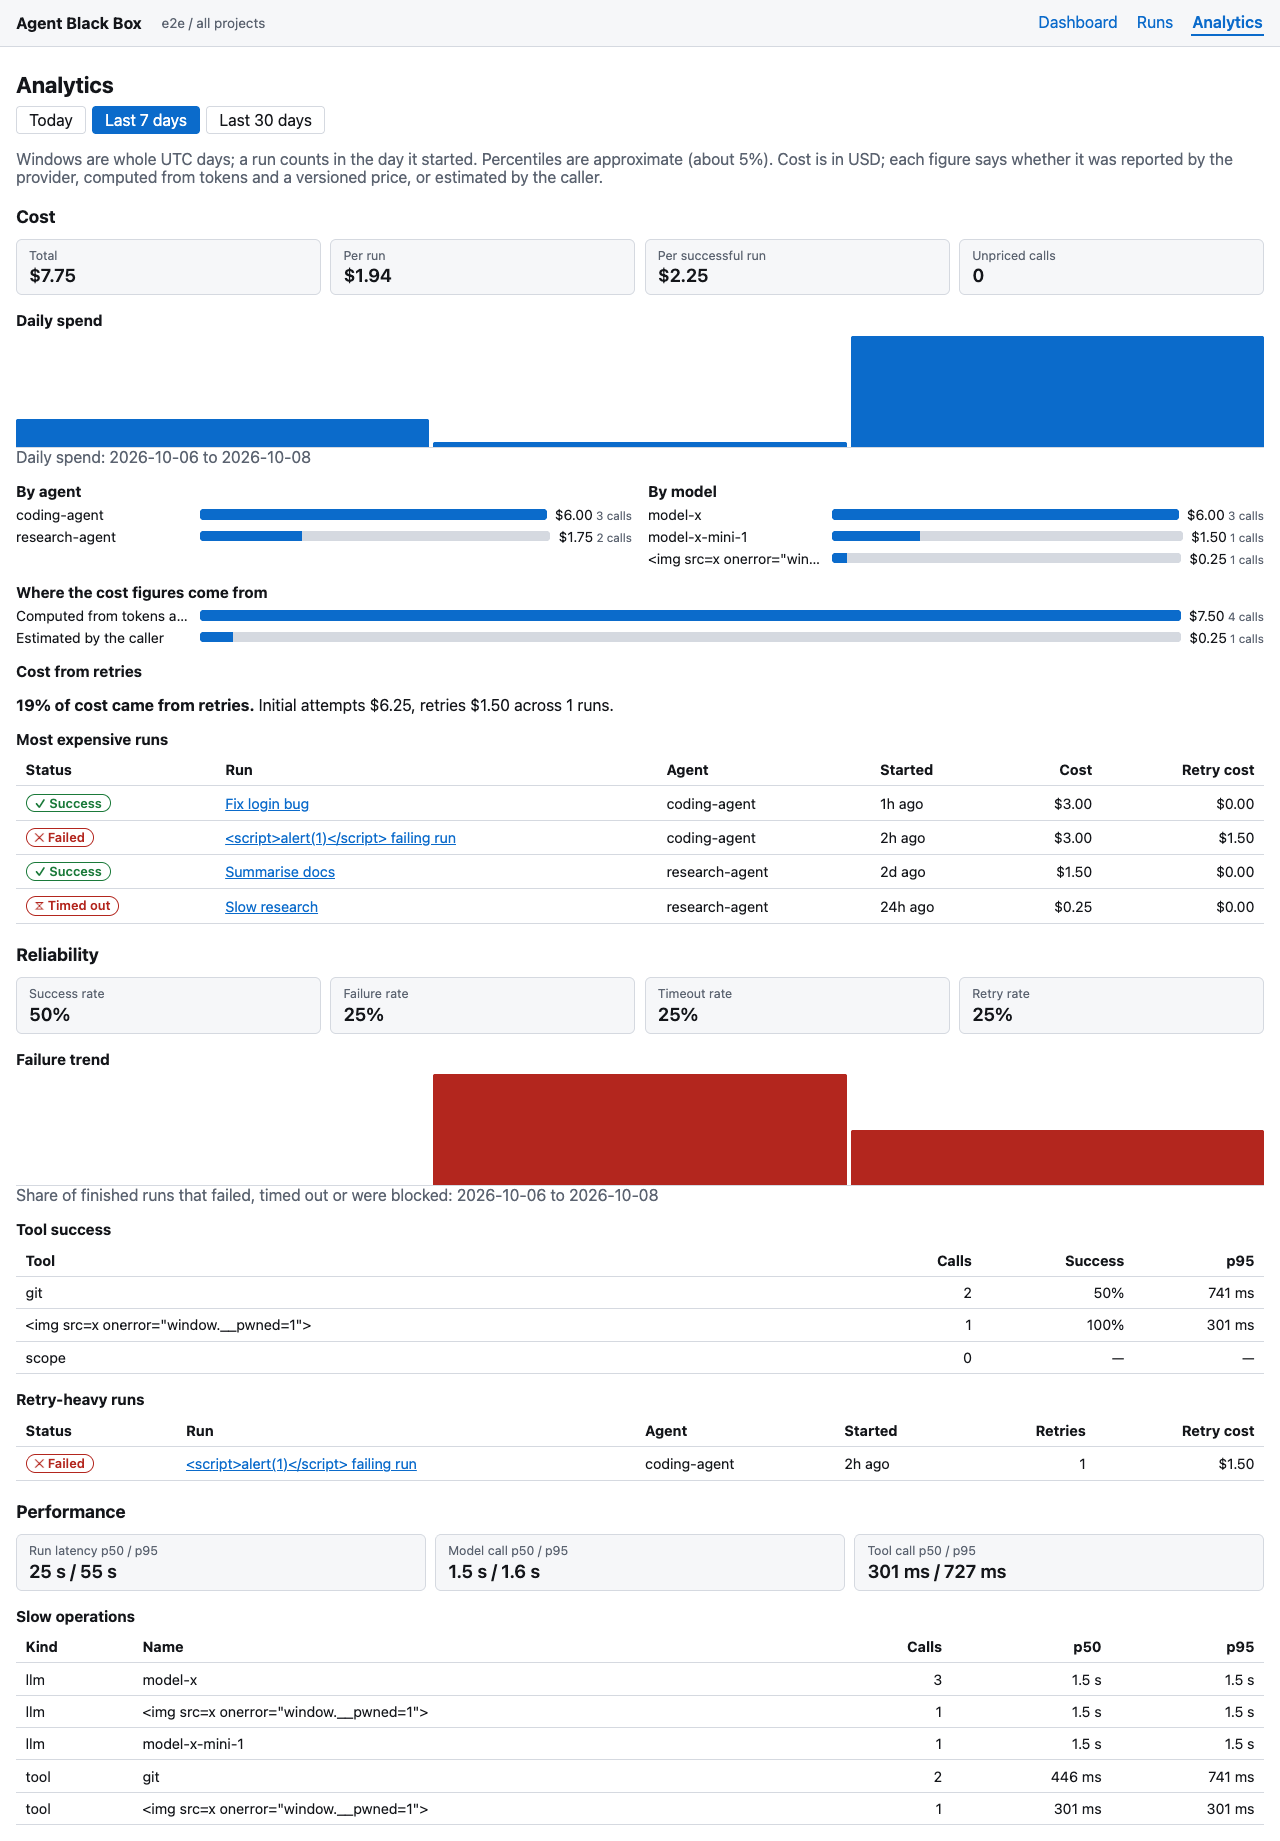
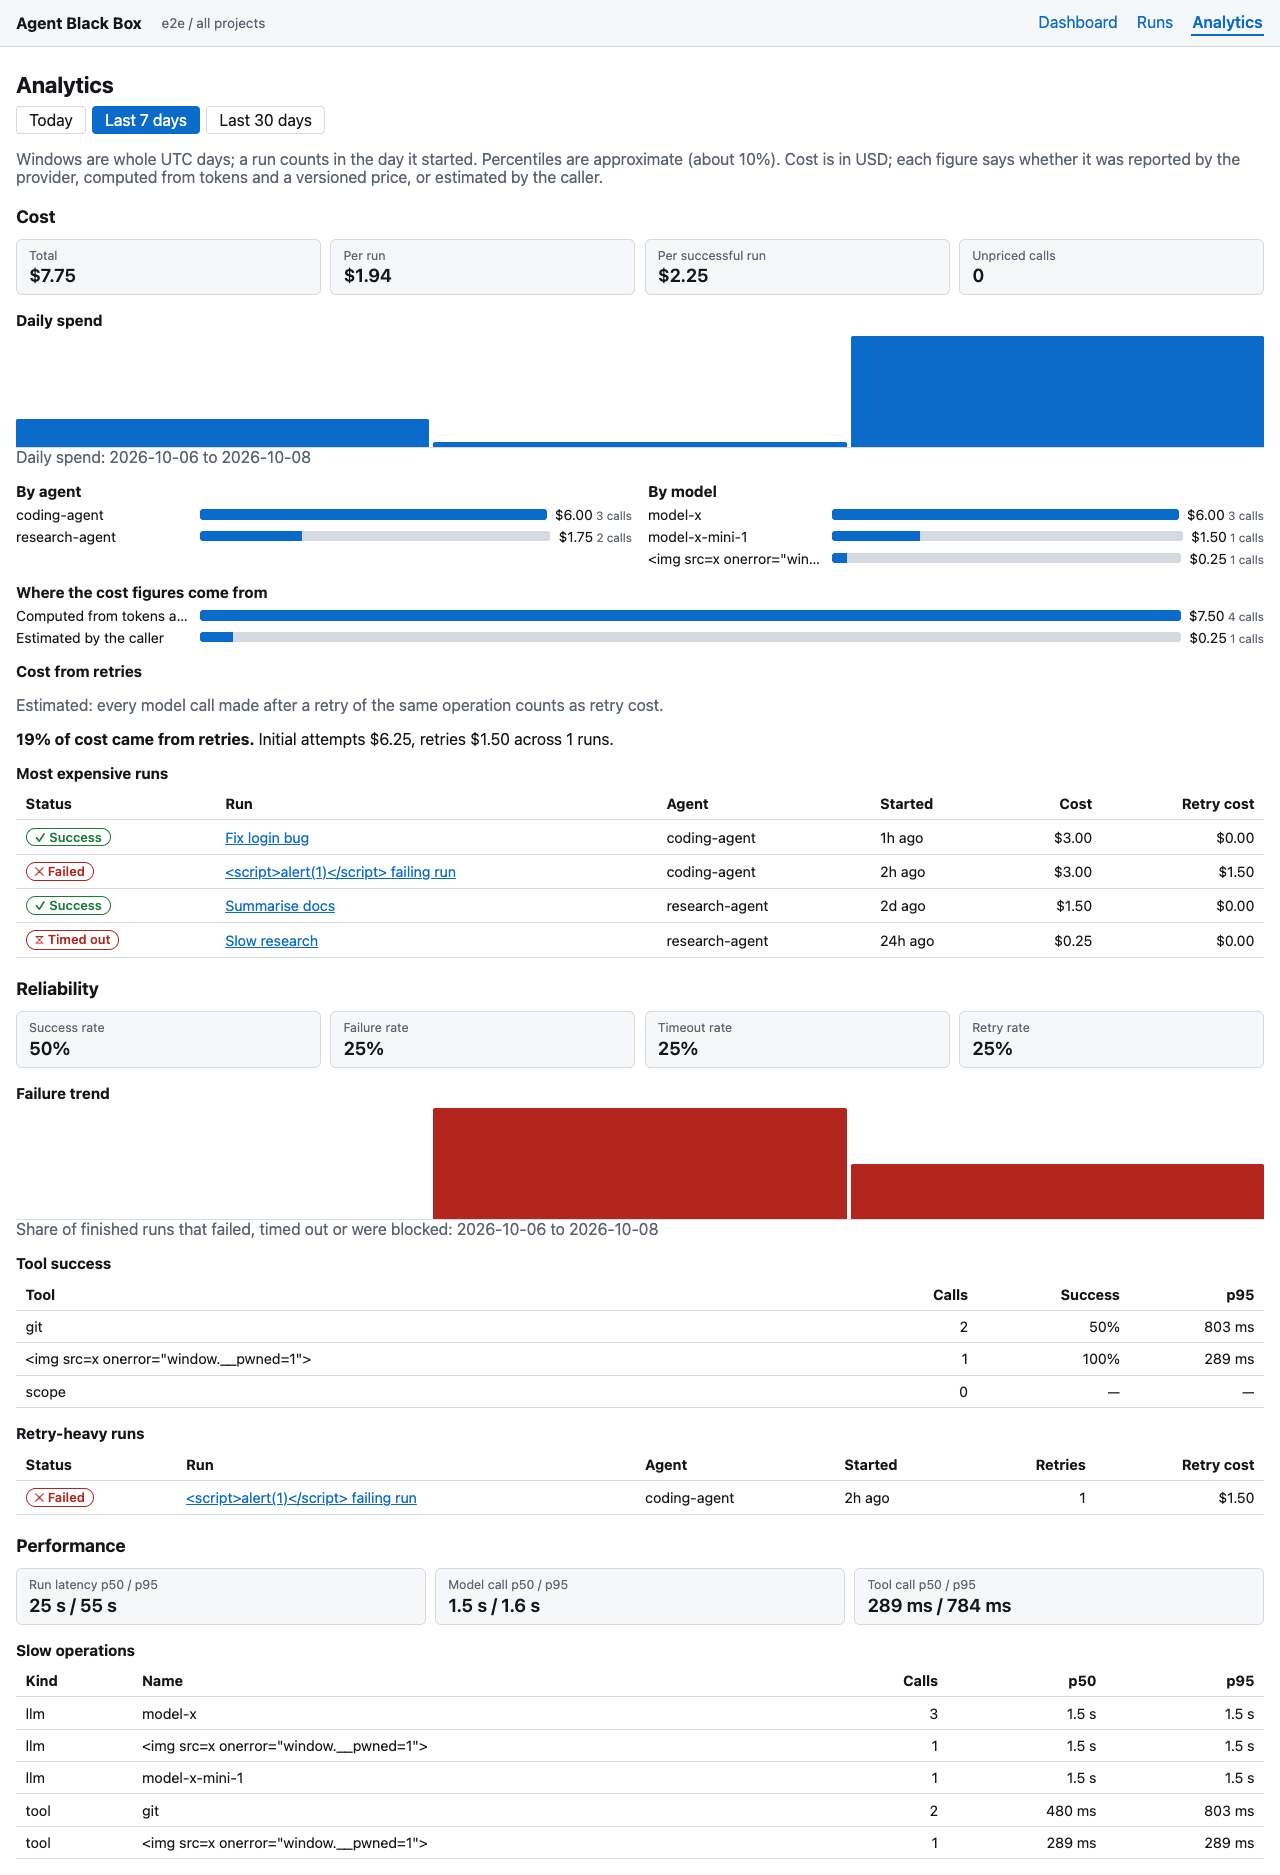
docs: review-fix verification, launch-bar updates

diff --git a/docs/plans/completed/phase-7-cost-analytics.md b/docs/plans/completed/phase-7-cost-analytics.md
@@ -125,7 +125,7 @@ scope-filter code. Independent verify and review passes (skills) before completi
 | 7 | KI-028 resolved | `Dashboard.tsx` reads `/v1/analytics/summary`; `computeDashboard` removed; `tests/analytics.test.tsx`, `runs-list.test.tsx`; E2E dashboard test; issue #20 closed, row moved to Resolved | VERIFIED |
 | 8 | Dashboard p95 < 1.5 s on Stage A, measured | `docs/benchmarks/phase-7-analytics.md` and `docs/benchmarks/phase-7-analytics-results.json` (3 repeats, warm-up, no worker): 700,000 runs / 5,948,006 spans / 2,098,880 lines; summary worst p95 about 20 ms; slowest endpoint worst p95 407 ms (first repeat after restart). Limits stated up front: seeded derived tables, tiny cardinality, no concurrent ingestion | VERIFIED under those conditions |
 | 9 | Browser E2E (Playwright, axe, screenshots) | `scripts/analytics-e2e.sh`: 4 passed (dashboard figures, analytics page figures, hostile names as text with no dialog/`__pwned`, window switch + 375 px no horizontal overflow); axe serious/critical = 0; screenshots in `docs/screenshots/phase-7/`; no `dangerouslySetInnerHTML` in `apps/web/src` | VERIFIED |
-| 10 | openapi, client, quality | `make openapi`, `pnpm gen:api` current; `scripts/quality.sh full` exit 0 (re-run after the review fixes, see the review-fixes section for counts) | VERIFIED |
+| 10 | openapi, client, quality | `make openapi`, `pnpm gen:api` current; `scripts/quality.sh full` exit 0 after the review fixes: event-schema 341, sdk 135, api 499, web 283 passed; migrations up/down/up to 0043; web build; wheel build | VERIFIED |
 | 11 | §138 launch bar run as a checklist | below | DONE, partly open |
 
 ## Security review note (review-change)
@@ -143,12 +143,12 @@ only as React text nodes (tested). Findings fixed during review: `E501`/lint and
 | Duplicate events do not appear | `test_event_store.py` duplicate/conflict tests, `stream-e2e` refresh test (no duplicate rows), web `mergeEvents` tests; all in the green quality run | VERIFIED |
 | Sensitive fields can be disabled/redacted | SDK default `METADATA_ONLY`, `test_redaction.py` (payload modes, secret patterns, fail-closed callback); server-side detectors are KI-032 | VERIFIED (client-side only; KI-032 open) |
 | A failed coding-agent run can be diagnosed from the UI | the coding-agent demo, shell/diff views and artifact store are Phase 6 (parallel branch, not in this tree). The generic failure path (failure trend, timeline, retry-heavy runs, run detail) is exercised | NOT VERIFIED HERE: depends on Phase 6 |
-| Cost values are explainable | each model call stores source (provider-reported / estimated / client estimate / unpriced), pricing version and components; `GET /v1/pricing`; UI "where the cost figures come from", unpriced count, unrebuilt notice. Built-in prices are illustrative only (KI-050) | PARTLY: explainable, but real vendor prices must be added (KI-050, S2) |
+| Cost values are explainable | each model call stores source (absurd figures are clamped to 1,000,000 USD per call and counted, never silently trusted) (provider-reported / estimated / client estimate / unpriced), pricing version and components; `GET /v1/pricing`; UI "where the cost figures come from", unpriced count, unrebuilt notice. Built-in prices are illustrative only (KI-050) | PARTLY: explainable, but real vendor prices must be added (KI-050, S2) |
 | Project data is tenant-isolated | tenant repository, schema-constraint, runtime-role and analytics isolation tests; mutation checks above | VERIFIED |
 | SDK outage behaviour does not break the demo agent | SDK tests (`test_client.py` never-raise and offline tests, exporter retry bounds); demo agent is Phase 6 | VERIFIED for the SDK; demo agent depends on Phase 6 |
 | README reproduces setup from a clean machine | no clean machine available; compose stack last verified at Phase 2 | UNVERIFIED (env) |
 | CI is green | `scripts/quality.sh full` exit 0 locally; nothing pushed, so GitHub CI (including the new `analytics-e2e` job) has never run on this branch | UNVERIFIED until pushed |
-| Basic load test passes the target stage | ingestion benchmark (Phase 2, about 4,000 events/s vs the Stage A peak of 1,000 events/s); analytics benchmark now (Stage A, p95 < 1.5 s). The ingestion benchmark was not re-run after Phase 7 changes (KI-054) | PARTLY: analytics VERIFIED; ingest re-run open (KI-054) |
+| Basic load test passes the target stage | ingestion benchmark (Phase 2, about 4,000 events/s vs the Stage A peak of 1,000 events/s); analytics benchmark now (Stage A, p95 < 1.5 s). The ingestion benchmark was not re-run after Phase 7 changes (KI-054) | PARTLY: analytics VERIFIED under the stated benchmark limits (seeded derived tables, tiny cardinality, no concurrent ingestion); ingest re-run open (KI-054) |
 
 Outcome: not every item is evidenced. Open before the MVP can be accepted: Phase 6 (coding-agent diagnosis, demo agent), KI-050 (real prices), KI-054 (ingest re-measure),
 a clean-machine README run, and GitHub CI. This phase stops at the MVP gate; the human reviews.
@@ -171,3 +171,5 @@ An independent review found tenancy sound and reproduced three P1 poisoning path
 | Bench | 801 ms explanation (cold cache) was wrong | benchmark mode no longer starts a worker; warm-up, 3 repeats, worst repeat checked; results file saved; limits up front; the earlier outlier is explained as contention and stated as not reproduced | `docs/benchmarks/phase-7-analytics.md` | n/a |
 | P3 | failure_rate defined differently in docs and trend; sdk doc stale; rebuild-costs silent cap; concurrent refresh; lost-update window; active-agents vs ADR-041; retry cost label; cached tokens | trend now uses `failure_rate` + `timeout_rate` as in `rates`; sdk-python.md fixed; CLI warns at `--limit`; advisory lock per workspace-day; KI-057 (S3) for the lost-update window; active-agents documented as the one live read; UI labels retry cost "Estimated"; api-v1 states adapters must report input tokens including cached | tests above | n/a |
 KI-055 raised to S2 (issue #43 relabelled). New: KI-056 (S2), KI-057 (S3).
+
+Verification after the fixes: `scripts/quality.sh full` **exit 0** (event-schema 341, sdk 135, api 499, web 283); `scripts/analytics-e2e.sh` 4/4 passed with axe; `scripts/analytics-e2e.sh` bench mode results in `docs/benchmarks/phase-7-analytics-results.json`.
